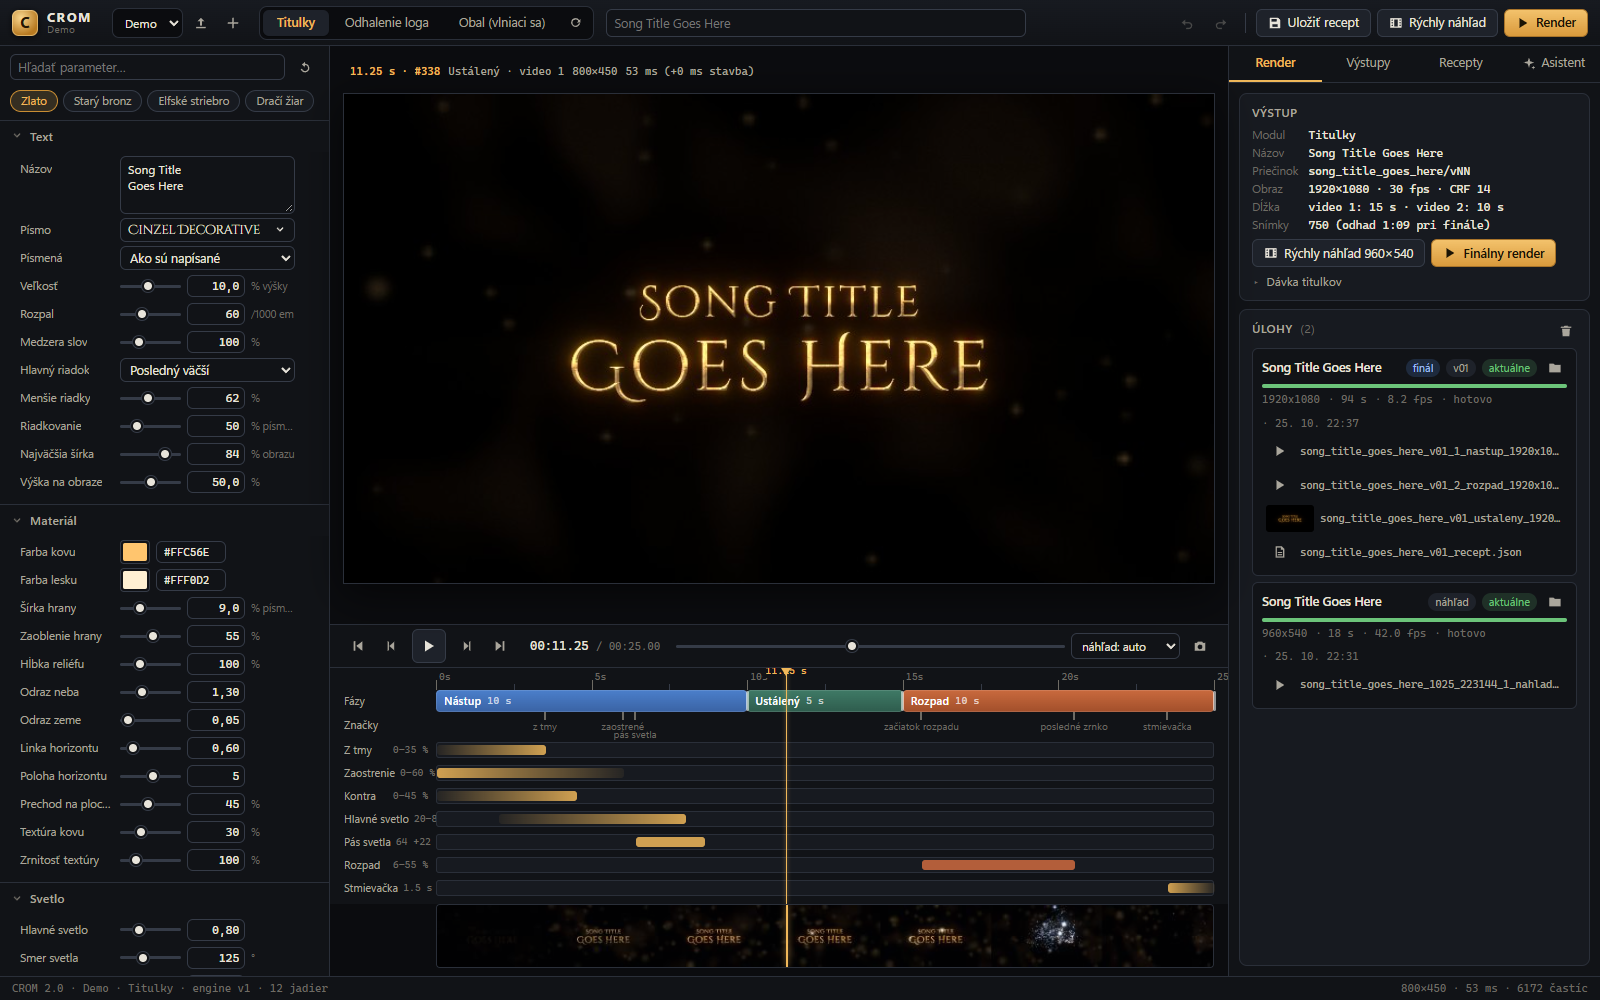
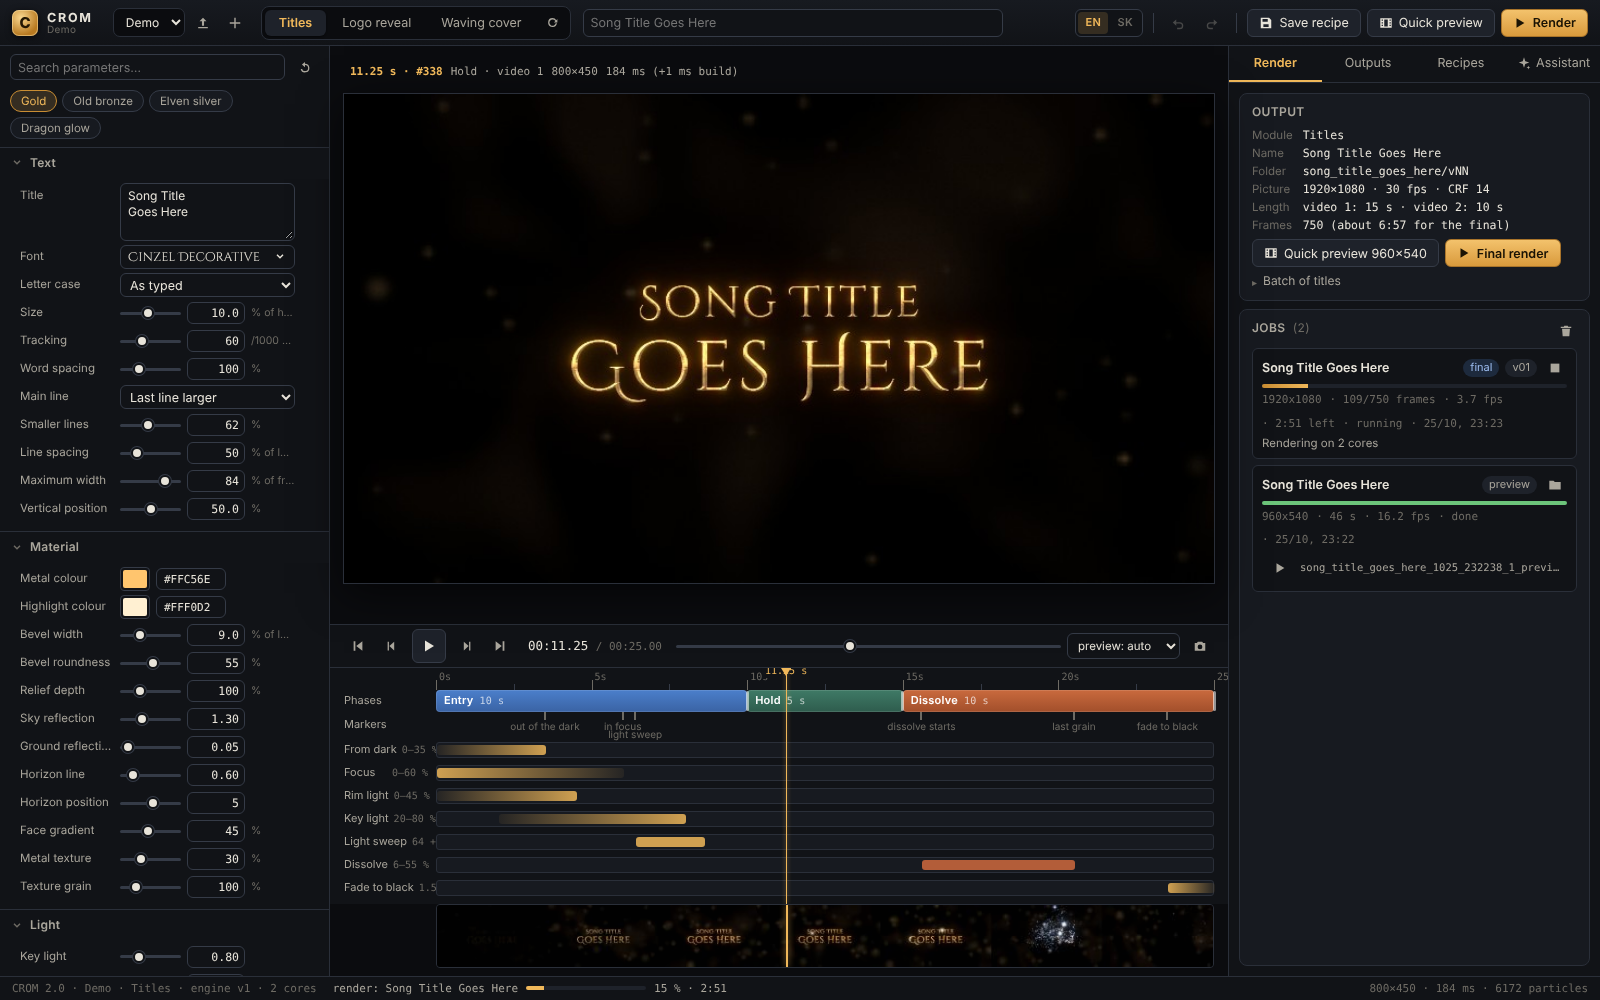
Docs: English README and screenshots, Slovak guide renamed to GUIDE.sk.md
- README describes the English UI, the language switch, the new file names and upgrading from an
  older version, and how to add a language
- New screenshots of the English UI plus one in Slovak

Claude-Session: https://claude.ai/code/session_01WuU8xuZx5tapR4WxLqYHZc

diff --git a/README.md b/README.md
@@ -15,7 +15,7 @@ Everything renders on your own computer. Nothing is uploaded. Every module can e
 | WebM VP9 (.webm) | web |
 | PNG sequence | anything else |
 
-The interface is in Slovak. This README gives the English name of each control next to its Slovak label. A Slovak user guide is in [NAVOD.md](NAVOD.md).
+The interface is in English and Slovak. Switch with **EN / SK** in the top bar; the choice is remembered in the browser. A Slovak user guide is in [GUIDE.sk.md](GUIDE.sk.md).
 
 ## Run it on localhost
 
@@ -24,8 +24,8 @@ You need Python 3.10 or newer and ffmpeg. The app serves a web page at **http://
 ### Windows 10 / 11
 
 1. Download the repo (**Code > Download ZIP**) and unzip it, or `git clone https://github.com/BranLang/crom-band-visuals.git`.
-2. Double-click **`instaluj.bat`** (install, needed once). If Python or ffmpeg is missing, it installs them with winget. Then it creates `.venv` and installs the Python packages.
-3. Double-click **`spusti.bat`** (start). Your browser opens http://localhost:8765. Keep the black window open while you work. Closing it stops the app.
+2. Double-click **`install.bat`** (needed once). If Python or ffmpeg is missing, it installs them with winget. Then it creates `.venv` and installs the Python packages.
+3. Double-click **`start.bat`**. Your browser opens http://localhost:8765. Keep the black window open while you work. Closing it stops the app.
 
 Manual install from a terminal in the repo folder:
 
@@ -72,68 +72,72 @@ The repo ships with a **Demo** project: a made-up CROM logo and an album cover c
 
 ### 1. Pick a project and a module
 
-The project picker is at the top left. Under it are the three modules: **Titulky** (song titles), **Odhalenie loga** (logo reveal) and **Obal (vlniaci sa)** (waving cover). The large preview in the middle updates as soon as you change something.
+The project picker is at the top left. Next to it are the three modules: **Titles**, **Logo reveal** and **Waving cover**. The large preview in the middle updates as soon as you change something.
 
 ![Song titles module with presets and timeline](docs/screenshots/01-titles.png)
 
-- **Predvoľby** (presets) set the whole look at once. Fine-tune it with the sliders on the right: timing, colours, light, camera.
-- The **timeline** under the preview shows the phases of the animation: *Nástup* (in), *Ustálený* (hold) and *Rozpad* (out). Click on it to jump to any moment.
+- **Presets** (the chips above the parameters) set the whole look at once. Fine-tune it with the sliders on the left: timing, colours, light, camera.
+- The **timeline** under the preview shows the phases of the animation: *Entry*, *Hold* and *Dissolve*. Click on it to jump to any moment, or drag the bars to change the timing.
 - The camera icon under the preview saves the current frame as a PNG.
 
 ### 2. Logo reveal
 
-Pick your logo in the **logo** field. A PNG with a transparent background works best. Choose how it appears (fade, wipe, focus or slide up), then add glow, shine and sparks to taste.
+Pick your logo in the **Logo image** field. A PNG with a transparent background works best. Choose how it appears (fade, wipe, focus or slide up), then add glow, shine and sparks to taste.
 
 ![Logo reveal of the demo logo](docs/screenshots/02-logo-reveal.png)
 
 ### 3. Waving album cover
 
-Pick the cover in the **obal** field. The filmstrip shows frames across the whole clip, so you can see the motion without playing it. Pinned boxes keep parts of the cover (the band name, for example) still while the rest waves.
+Pick the cover in the **Cover image** field. The filmstrip shows frames across the whole clip, so you can see the motion without playing it. **Protected boxes** keep parts of the cover (the band name, for example) still while the rest waves.
 
 ![Waving cover module with filmstrip and recipes](docs/screenshots/03-waving-cover.png)
 
 ### 4. Transparent background
 
-In the **Výstup** (output) group, set the background to **Priehľadné (alfa kanál)** (transparent, alpha channel) and pick one of the formats from the table above. A video like that sits on top of anything in your editor or VJ software.
+In the **Output** group, set **Background** to **Transparent (alpha channel)** and pick one of the formats from the table above. A video like that sits on top of anything in your editor or VJ software.
 
 ### 5. Preview and render
 
-- **Rýchly náhľad** (quick preview) renders a 960×540 video in seconds into `projekty/<project>/vystupy/_nahlady`. With alpha it is always WebM.
-- **Render** makes the final video at full resolution into `projekty/<project>/vystupy/<name>/vNN`. Every render gets a new version folder (`v01`, `v02`, …), so nothing is overwritten. On a typical PC a 30 s Full HD clip takes about one and a half minutes.
-- The **Úlohy** (jobs) panel shows running and finished renders.
+- **Quick preview** renders a 960×540 video in seconds into `projects/<project>/outputs/_previews`. With alpha it is always WebM.
+- **Render** makes the final video at full resolution into `projects/<project>/outputs/<name>/vNN`. Every render gets a new version folder (`v01`, `v02`, …), so nothing is overwritten. On a typical PC a 30 s Full HD clip takes about one and a half minutes.
+- The **Jobs** panel shows running and finished renders.
 
-![Jobs panel with a finished final render and a preview](docs/screenshots/04-render-jobs.png)
+![Jobs panel with a final render in progress and a finished preview](docs/screenshots/04-render-jobs.png)
 
 ### 6. Outputs and recipes
 
-The **Výstupy** (outputs) tab lists the finished videos of the project. The folder icon opens them in Explorer or Finder.
+The **Outputs** tab lists the finished videos of the project. The folder icon opens them in Explorer or Finder.
 
 ![Outputs tab](docs/screenshots/05-outputs.png)
 
-**Uložiť recept** (save recipe, Ctrl+S) stores every setting of the current module. Load it again from the **Recepty** (recipes) tab. Each final render also saves its recipe next to the video, so you can always rebuild it.
+**Save recipe** (Ctrl+S) stores every setting of the current module. Load it again from the **Recipes** tab. Each final render also saves its recipe next to the video, so you can always rebuild it.
 
 ### 7. Your own band
 
-- Click **+** next to the project picker (new project) and type the band name. Each project has its own logos, covers, recipes and outputs.
-- The upload icon next to the picker (**Logo a obaly projektu**, project logos and covers) opens a window where **Nahrať…** (upload) adds a logo or a cover.
+- Click **+** next to the project picker (**New project**) and type the band name. Each project has its own logos, covers, recipes and outputs.
+- The upload icon next to the picker (**Project logos and covers**) opens a window where **Upload…** adds a logo or a cover.
 
 A project is a plain folder:
 
 ```text
-projekty/
+projects/
   my-band/
-    projekt.json     name and description
-    logo/            logos (PNG with transparency)
-    obaly/           album covers
-    recepty/         saved recipes
-    vystupy/         renders (ignored by git)
+    project.json     name and description
+    logos/           logos (PNG with transparency)
+    covers/          album covers
+    recipes/         saved recipes
+    outputs/         renders (ignored by git)
 ```
+
+### Upgrading from an older version
+
+Older versions used Slovak folder and file names (`projekty/`, `projekt.json`, `recepty/`, `obaly/`, `vystupy/`, `_nastavenia.json`). On its first start the app renames them to the names above and prints what it moved. Nothing is overwritten, and recipes saved by older versions load as they are.
 
 ## Optional: control it from Claude (MCP)
 
 CROM includes an MCP server (`mcp_server.py`), so Claude Desktop or Claude Code can drive it in plain words. Claude can create a project, add a logo, set the parameters, look at preview frames and render.
 
-- Windows: run `instaluj.bat` first, then double-click **`pripoj_claude.bat`**. It asks whether to add CROM to Claude Code and to Claude Desktop, and backs up your Claude Desktop config first.
+- Windows: run `install.bat` first, then double-click **`connect_claude.bat`**. It asks whether to add CROM to Claude Code and to Claude Desktop, and backs up your Claude Desktop config first.
 - macOS: `.venv/bin/python mcp_server.py --setup`
 
 Restart Claude Desktop afterwards. Claude starts CROM by itself when it needs it. Example prompts:
@@ -144,13 +148,13 @@ Restart Claude Desktop afterwards. Claude starts CROM by itself when it needs it
 
 ## Optional: AI assistant in the app (paid)
 
-The **Asistent** tab turns a sentence into settings, for example "slow gold titles that burn out at the end". It calls the Anthropic API. **Every use is billed to your own Anthropic account.** Without a key the rest of the app works the same.
+The **Assistant** tab turns a sentence into settings, for example "slow gold titles that burn out at the end". It answers in the language you write in. It calls the Anthropic API. **Every use is billed to your own Anthropic account.** Without a key the rest of the app works the same.
 
 1. Install the SDK: `.venv\Scripts\python -m pip install anthropic` (Windows) or `.venv/bin/pip install anthropic` (macOS).
-2. Paste your key in the **Asistent** tab under the key icon and click **Uložiť kľúč** (save key). You can set `ANTHROPIC_API_KEY` instead.
-3. **Overiť kľúč** (check key) is free.
+2. Paste your key in the **Assistant** tab under the key icon and click **Save key**. You can set `ANTHROPIC_API_KEY` instead.
+3. **Check key** is free.
 
-The key is stored only in `_nastavenia.json` in the app folder. That file is in `.gitignore`, so it never gets committed.
+The key is stored only in `_settings.json` in the app folder. That file is in `.gitignore`, so it never gets committed.
 
 | Model | Input / output per million tokens |
 |---|---|
@@ -166,6 +170,13 @@ When the assistant looks at preview frames, each 960×540 frame costs about 690 
 - **ffmpeg not found**: install it (`winget install -e --id Gyan.FFmpeg` or `brew install ffmpeg`), then open a new terminal so the PATH refreshes.
 - **macOS says the script is not executable**: `chmod +x install.sh start.sh`.
 - **Something else**: open an issue with the error text from the terminal window.
+
+## Translating the interface
+
+The interface text is written in English in `web/index.html`, `web/app.js` and the modules. `web/i18n.js` holds the Slovak translation, keyed by the English text, including the labels and messages that come from the server. A string without a Slovak line simply shows in English.
+
+![The titles module with the interface switched to Slovak](docs/screenshots/06-slovak.png)
+ To add a language, add its code to `LANGS` and a dictionary next to `SK` in `web/i18n.js`, and a button next to EN / SK in `web/index.html`.
 
 ## Fonts
 

diff --git a/GUIDE.sk.md b/GUIDE.sk.md
@@ -2,6 +2,7 @@
 
 CROM robí vizuály pre kapely: titulky skladieb, odhalenie loga a vlniaci sa obal albumu.
 Beží iba na tvojom počítači (Windows 10 alebo 11), nič neposiela na internet. Pre macOS pozri README.md.
+Rozhranie je po anglicky aj po slovensky: jazyk prepneš tlačidlami **EN / SK** v hornej lište a aplikácia si ho zapamätá.
 
 ---
 
@@ -10,11 +11,11 @@ Beží iba na tvojom počítači (Windows 10 alebo 11), nič neposiela na intern
 1. Stiahni `CROM.zip` (na GitHube **Code > Download ZIP**).
 2. Klikni naň pravým tlačidlom, zvoľ **Extrahovať všetko...** a ako cieľ zadaj napríklad `C:\CROM`.
    - Nerozbaľuj ho do OneDrive ani na plochu so synchronizáciou, video súbory sú veľké.
-3. V priečinku `C:\CROM` by si mal vidieť súbory `instaluj.bat`, `spusti.bat`, `app.py` a priečinky `moduly`, `projekty`, `web`.
+3. V priečinku `C:\CROM` by si mal vidieť súbory `install.bat`, `start.bat`, `app.py` a priečinky `modules`, `projects`, `web`.
 
 ## 2. Inštalácia (stačí raz)
 
-1. Dvojklik na **`instaluj.bat`**.
+1. Dvojklik na **`install.bat`**.
 2. Ak Windows ukáže modré okno „Systém Windows ochránil váš počítač“, klikni na **Ďalšie informácie** a potom **Spustiť aj tak**.
 3. Inštalátor sám:
    - nájde Python 3.10 alebo novší, a keď chýba, nainštaluje Python 3.12 cez winget,
@@ -22,12 +23,12 @@ Beží iba na tvojom počítači (Windows 10 alebo 11), nič neposiela na intern
    - stiahne knižnice (numpy, Pillow, opencv, fontTools),
    - nainštaluje ffmpeg, ak ho ešte nemáš.
 4. Winget sa môže opýtať na súhlas alebo na práva správcu, potvrď to.
-5. Trvá to pár minút a potrebuje internet. Na konci uvidíš **Hotovo**.
-6. Ak inštalácia skončí hláškou, že ffmpeg nenašla, zatvor okno a spusti `instaluj.bat` ešte raz (nový PATH sa niekedy prejaví až v novom okne).
+5. Trvá to pár minút a potrebuje internet. Na konci uvidíš **Done**.
+6. Ak inštalácia skončí hláškou, že ffmpeg nenašla (*ffmpeg could not be found*), zatvor okno a spusti `install.bat` ešte raz (nový PATH sa niekedy prejaví až v novom okne).
 
 ## 3. Spustenie
 
-1. Dvojklik na **`spusti.bat`**.
+1. Dvojklik na **`start.bat`**.
 2. Otvorí sa prehliadač na adrese **http://localhost:8765**.
 3. Čierne okno nechaj otvorené, kým pracuješ. Zatvorením okna (alebo Ctrl+C) aplikáciu vypneš.
 
@@ -45,7 +46,7 @@ Beží iba na tvojom počítači (Windows 10 alebo 11), nič neposiela na intern
 | **Obal (vlniaci sa)** | Obal albumu sa vlní ako látka vo vetre. |
 
 ### Logo a obal
-- Ikonka so šípkou nahor vedľa výberu projektu (**Logo a obaly projektu**) otvorí okno, kde tlačidlom **Nahrať…** pridáš logo alebo obal.
+- Ikonka so šípkou nahor vedľa výberu projektu (**Logá a obaly projektu**) otvorí okno, kde tlačidlom **Nahrať…** pridáš logo alebo obal.
 - V module potom súbor vyberieš v poli **logo** alebo **obal**. Malá ikonka vedľa poľa nahrá nový súbor rovno odtiaľ.
 - Logo najlepšie ako **PNG s priehľadným pozadím**. Aplikácia ho nikdy neprekresľuje, v pokoji je pixel po pixeli rovnaké.
 
@@ -63,8 +64,8 @@ Beží iba na tvojom počítači (Windows 10 alebo 11), nič neposiela na intern
 - Takéto video v strižni položíš na čokoľvek. Rýchly náhľad s alfou je vždy WebM.
 
 ### Render
-- **Rýchly náhľad** urobí video v 960×540 do `projekty/<projekt>/vystupy/_nahlady`.
-- **Render** urobí finálne video v plnom rozlíšení do `projekty/<projekt>/vystupy/<názov>/vNN`.
+- **Rýchly náhľad** urobí video v 960×540 do `projects/<projekt>/outputs/_previews`.
+- **Render** urobí finálne video v plnom rozlíšení do `projects/<projekt>/outputs/<názov>/vNN`.
 - Ikonka fotoaparátu pod náhľadom uloží aktuálnu snímku ako PNG.
 - Záložka **Výstupy** ukáže hotové videá, ikonkou priečinka ich otvoríš.
 - **Uložiť recept** (Ctrl+S) zapamätá všetky nastavenia, v záložke **Recepty** ich znova načítaš.
@@ -73,11 +74,11 @@ Beží iba na tvojom počítači (Windows 10 alebo 11), nič neposiela na intern
 
 Ak používaš Claude Desktop alebo Claude Code, CROM sa dá ovládať aj slovami.
 
-1. Najprv musí prebehnúť `instaluj.bat`.
-2. Dvojklik na **`pripoj_claude.bat`**. Opýta sa, či má CROM pridať do Claude Code a do Claude Desktop. Odpovedz `A` (áno) alebo `n` (nie).
-   - Pôvodné nastavenia Claude Desktop sa zálohujú do `claude_desktop_config.json.zaloha`.
+1. Najprv musí prebehnúť `install.bat`.
+2. Dvojklik na **`connect_claude.bat`**. Opýta sa (po anglicky), či má CROM pridať do Claude Code a do Claude Desktop. Odpovedz `Y` alebo `A` (áno), alebo `n` (nie).
+   - Pôvodné nastavenia Claude Desktop sa zálohujú do `claude_desktop_config.json.backup`.
 3. Claude Desktop úplne zatvor (aj z ikonky pri hodinách) a znova otvor.
-4. CROM sa spustí sám, keď ho Claude potrebuje, `spusti.bat` netreba.
+4. CROM sa spustí sám, keď ho Claude potrebuje, `start.bat` netreba.
 
 Príklady, čo môžeš Claudovi napísať:
 - „V CROM-e urob titulky pre skladbu *Zlatý drak*, album *Svetlo*, tmavé s ohňom, a ukáž mi náhľad v 3. sekunde.“
@@ -94,16 +95,20 @@ Aplikácia má asistenta, ktorý z vety poskladá nastavenia. Potrebuje Anthropi
    ```
 2. Kľúč vlož v aplikácii v záložke **Asistent** pod ikonkou kľúča (Nastavenia) a daj **Uložiť kľúč**. Alebo ho nastav ako premennú prostredia `ANTHROPIC_API_KEY`.
    - **Overiť kľúč** nič nestojí, platí sa až za skutočné použitie asistenta.
-3. Kľúč nikomu neposielaj. Uloží sa iba do súboru `_nastavenia.json` v priečinku CROM.
+3. Kľúč nikomu neposielaj. Uloží sa iba do súboru `_settings.json` v priečinku CROM.
 
-## 7. Keď niečo nejde
+## 7. Prechod zo staršej verzie
+
+Staršie verzie mali priečinky a súbory po slovensky (`projekty/`, `projekt.json`, `recepty/`, `obaly/`, `vystupy/`, `_nastavenia.json`). Pri prvom spustení ich aplikácia sama premenuje na anglické názvy (`projects/`, `project.json`, `recipes/`, `covers/`, `outputs/`, `_settings.json`) a v čiernom okne vypíše, čo presunula. Nič sa neprepíše a staré recepty fungujú ďalej.
+
+## 8. Keď niečo nejde
 
 | Problém | Riešenie |
 |---|---|
-| `spusti.bat` píše „Python pre CROM nie je pripravený“ | Spusti najprv `instaluj.bat`. |
-| „Chýba ffmpeg“ | Spusti `instaluj.bat` znova v novom okne, alebo nainštaluj ffmpeg z https://www.gyan.dev/ffmpeg/builds/ |
+| `start.bat` píše „Python for CROM is not set up yet“ | Spusti najprv `install.bat`. |
+| „ffmpeg is missing“ | Spusti `install.bat` znova v novom okne, alebo nainštaluj ffmpeg z https://www.gyan.dev/ffmpeg/builds/ |
 | Prehliadač sa neotvoril | Otvor ručne http://localhost:8765 |
-| „Port 8765 je obsadený“ | CROM už beží v inom okne. Zatvor ho, alebo použi to otvorené. |
+| „Port 8765 is already in use“ | CROM už beží v inom okne. Zatvor ho, alebo použi to otvorené. |
 | Modul hlási chybu | Pri zozname modulov sa objaví ikonka výstrahy s počtom chýb. Klikni na ňu a text chyby pošli autorovi (GitHub Issues). |
 | Render je pomalý | Full HD video sa počíta na procesore, minúta videa môže trvať niekoľko minút. Na skúšanie používaj Náhľad. |
-| Claude CROM nevidí | Spusti `pripoj_claude.bat` znova a Claude Desktop úplne reštartuj. Záznam behu je v `_mcp_app.log`. |
+| Claude CROM nevidí | Spusti `connect_claude.bat` znova a Claude Desktop úplne reštartuj. Záznam behu je v `_mcp_app.log`. |
